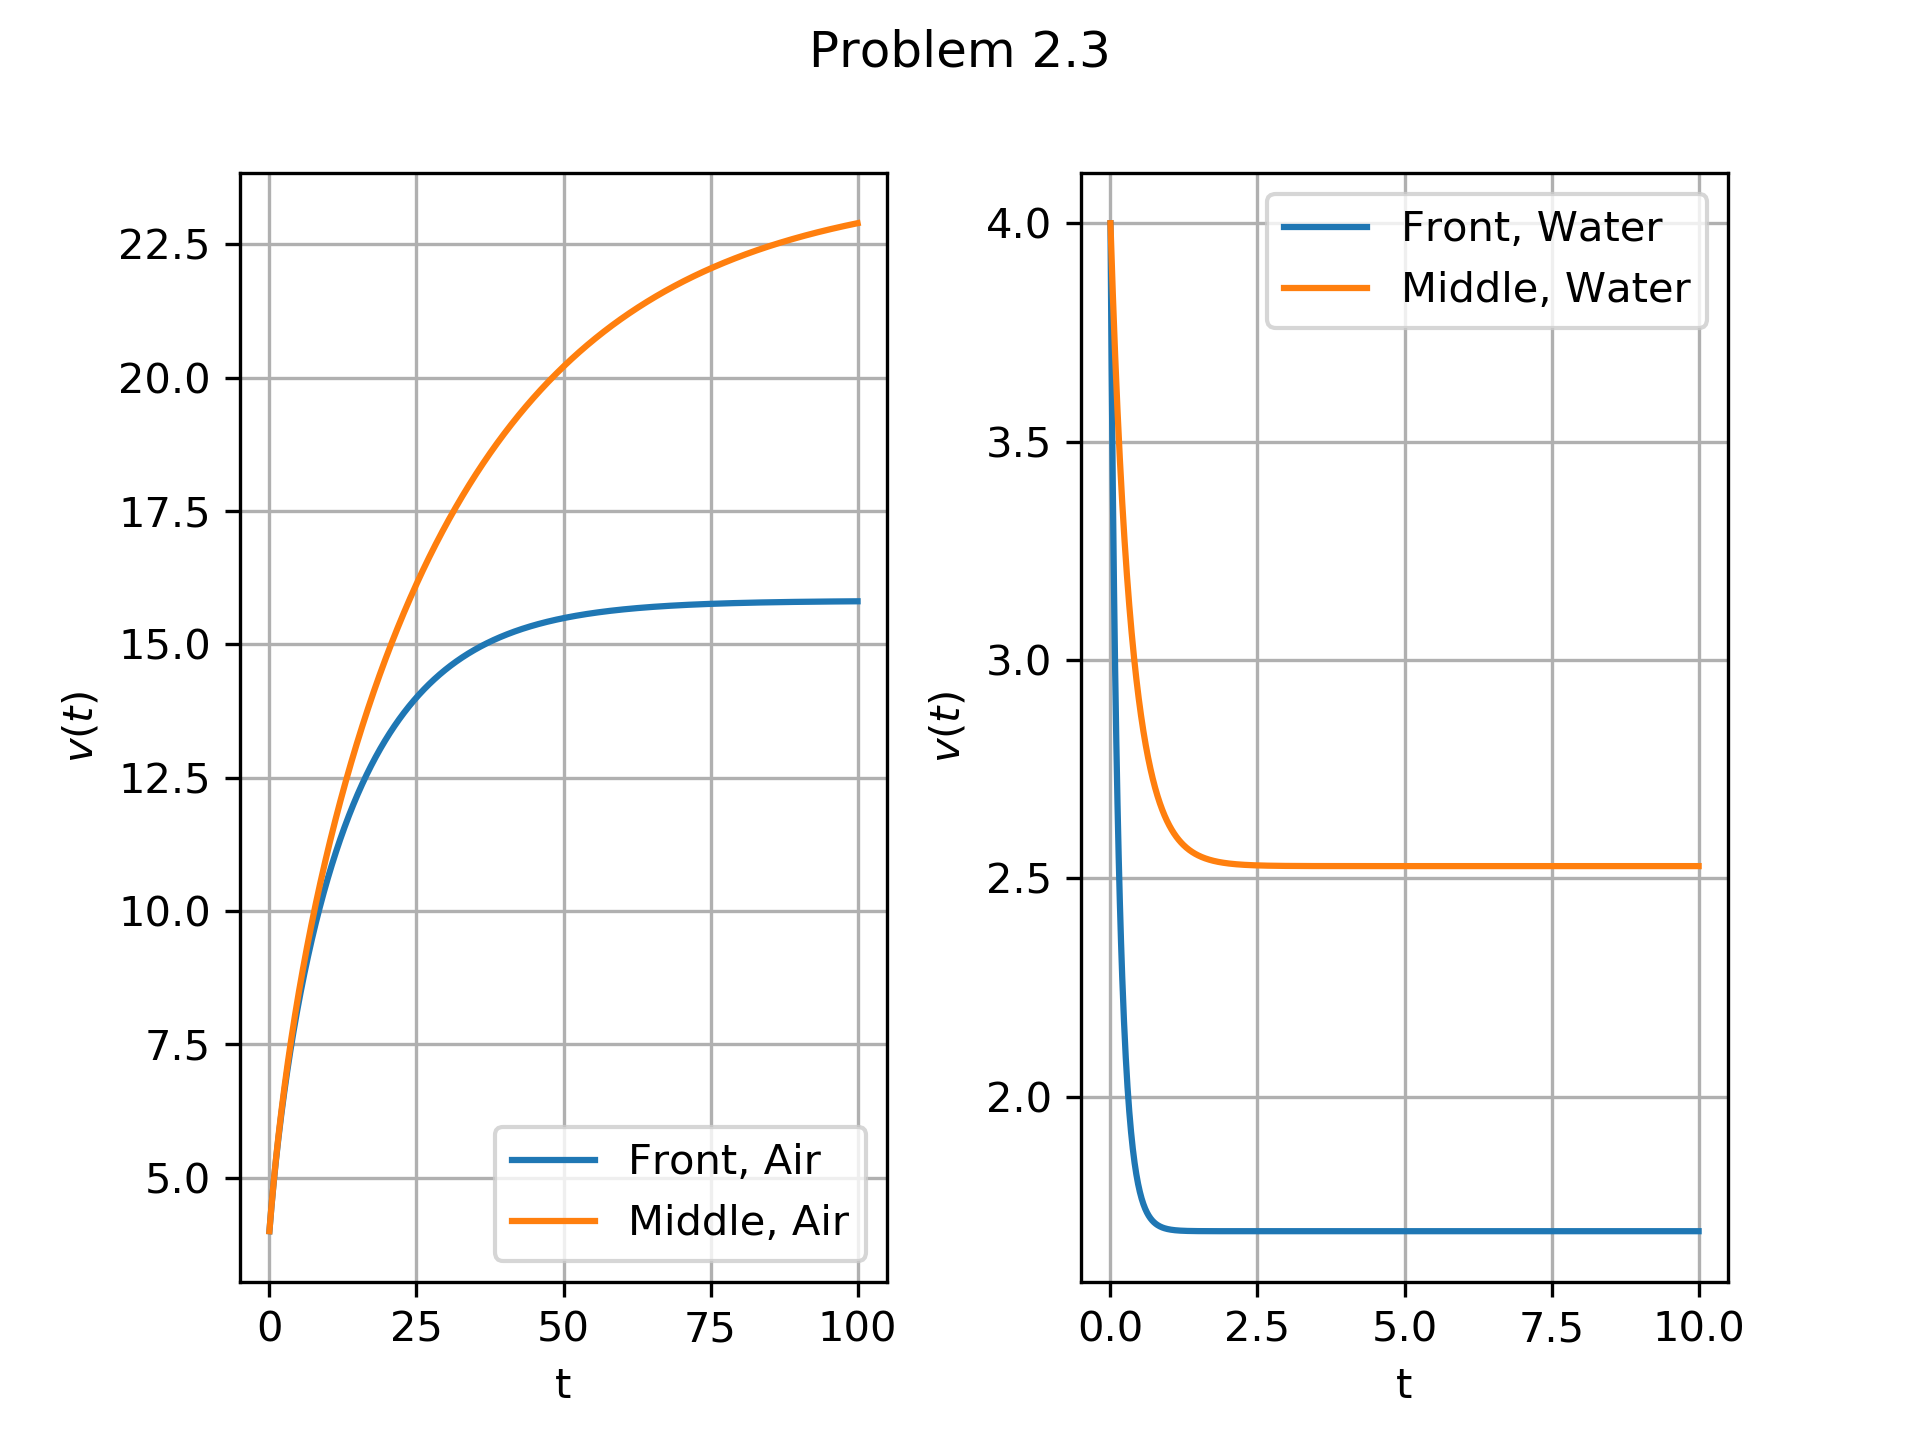
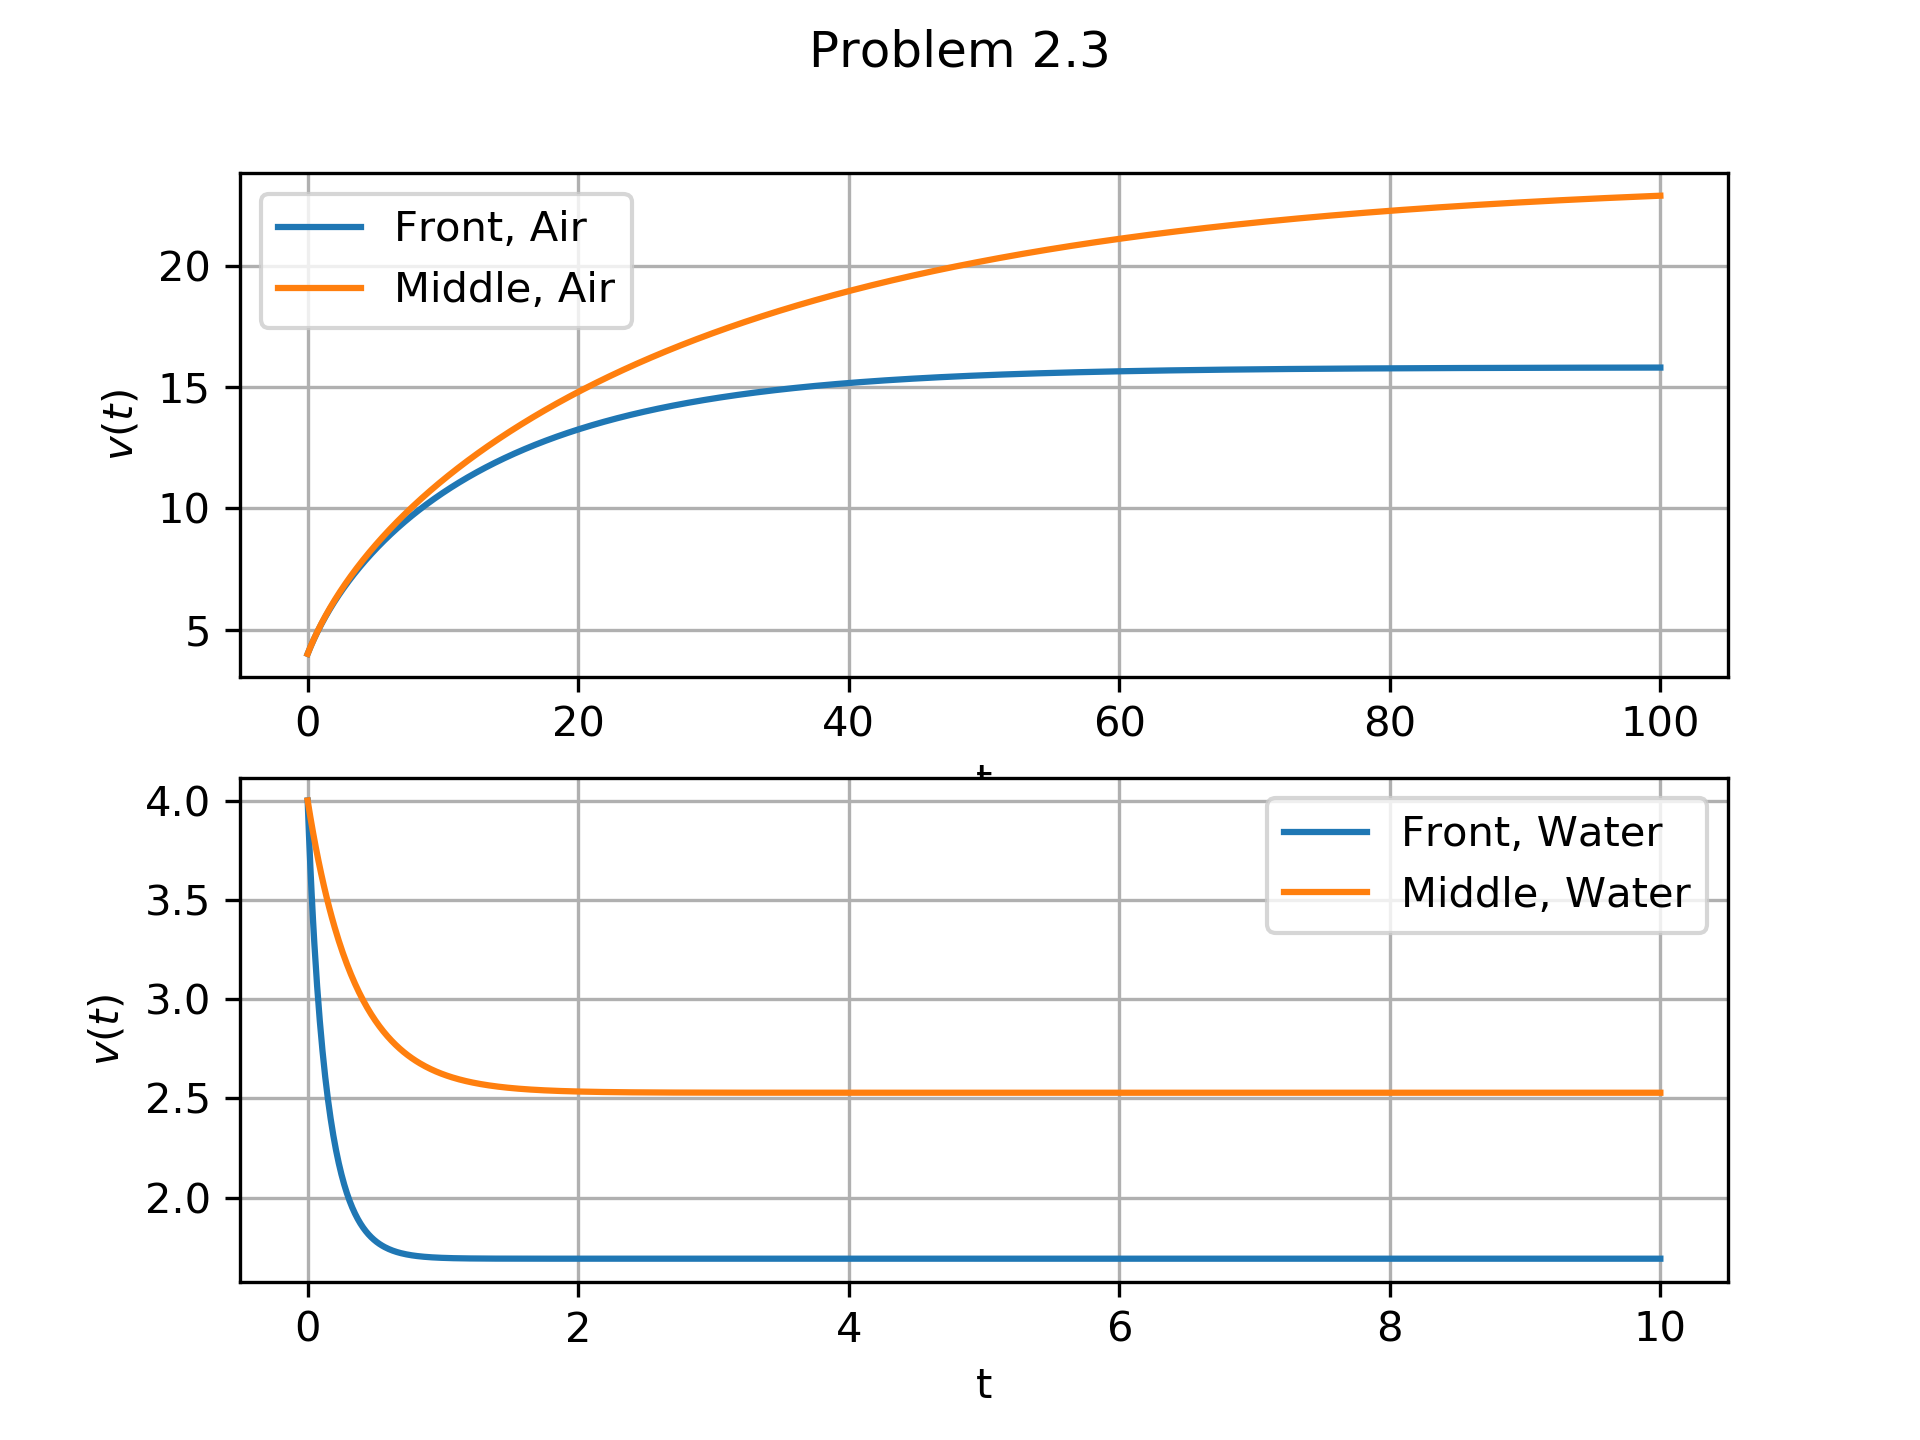
Fixed a couple bugs and added Constants.py

diff --git a/lib/Constants.py b/lib/Constants.py
@@ -1,6 +1,6 @@
 ########################################################################################################################
-#     ========     |  Purdue Physics 580 - Computational Physics                                                       #
-#     \\           |  Chapter 2 - Problem 5                                                                            #
+#     ========     |  Constants                                                                                        #
+#     \\           |  A basic class for physical constants                                                             #
 #      \\          |                                                                                                   #
 #      //          |  Author: Ethan Knox                                                                               #
 #     //           |  Website: https://www.github.com/ethank5149                                                       #
@@ -24,55 +24,14 @@
 # OTHERWISE, ARISING FROM, OUT OF OR IN CONNECTION WITH THE SOFTWARE OR THE USE OR OTHER DEALINGS IN THE SOFTWARE.     #
 ########################################################################################################################
 
-# Including
-from lib.NDSolveSystem import ODE, SymplecticODE
-import numpy as np
-from matplotlib import pyplot as plt
-from functools import partial
+
+class Air:
+    def __init__(self):
+        self.density = 1.225
+        self.viscosity = 2.0e-5
 
 
-def rhs(t, X, m, P, C, rho, A,F0):
-    if F0*X[0] < P:
-        return np.array([F0/m - 0.5 * C * rho * A * X[0] ** 2 / m, ])
-    else:
-        return np.array([P/(m*X[0])-0.5*C*rho*A*X[0]**2/m,])
-
-
-def rhs_old(t, X, m, P, C, rho, A):
-    return np.array([P/(m*X[0])-0.5*C*rho*A*X[0]**2/m,])
-
-
-power = 400
-mass = 70
-v_initial = 4
-drag_coeff = 0.5
-v_star = 7
-F_initial = power/v_star
-area = 0.33
-air_density = 1.225
-
-curried_rhs = partial(rhs, m=mass,P=power,C=drag_coeff,rho=air_density,A=area,F0=F_initial)
-curried_rhs_old = partial(rhs_old, m=mass,P=power,C=drag_coeff,rho=air_density,A=area)
-ic = np.array([v_initial,])  # Initial Condition
-
-sim1 = ODE(curried_rhs, ic, ti=0, dt=0.01, tf=50)
-sim2 = ODE(curried_rhs_old, ic, ti=0, dt=0.01, tf=50)
-
-sim1.run()
-sim2.run()
-
-# Plotting
-fig, ax = plt.subplots(1, 1)
-
-ax.plot(sim1.t_series, sim1.X_series[:,0], label=f"New Method")
-ax.plot(sim2.t_series, sim2.X_series[:,0], label=f"Old Method")
-
-ax.legend()
-ax.grid()
-ax.set_xlabel("t")
-ax.set_ylabel(r"$v(t)$")
-
-
-plt.suptitle("Problem 2.5")
-plt.subplots_adjust(wspace=0.3)
-plt.savefig("../../figures/Chapter2/Problem2_5",dpi=300)
+class Water:
+    def __init__(self):
+        self.density = 1000
+        self.viscosity = 1.0e-3

diff --git a/src/Chapter2/Problem2_3.py b/src/Chapter2/Problem2_3.py
@@ -25,40 +25,43 @@
 ########################################################################################################################
 
 # Including
-from lib.NDSolveSystem import ODE, SymplecticODE
+from lib.NDSolveSystem import ODE
+from lib import Constants
 import numpy as np
 from matplotlib import pyplot as plt
 from functools import partial
 
+
 # Global Definitions
 g = 9.81  # Gravitational Acceleration [m/s^2]
+w = 0.411  # Shoulder Width [m]
+air = Constants.Air()
+water = Constants.Water()
 
 
-def rhs(t, X, m,P,C,rho,eta,A,h):
-    return np.array([P/(m*X[0])-eta*A*X[0]/(m*h)-0.5*C*rho*A*X[0]**2/m,])
+def rhs(t, X, m, P, C, rho, eta, A):
+    return np.array([P/(m*X[0])-eta*w*X[0]/m-0.5*C*rho*A*X[0]**2/m,])
 
-def rhs2(t, X, m,P,C,rho,eta,A,h):
-    return np.array([X[1],P/(m*X[1])-eta*A*X[1]/(h*m)-0.5*C*rho*A*X[1]**2/m])
 
 P = 400
 m = 70
 v0 = 4
 C = 0.5
 
-w = 0.411  # Shoulder Width
 A_front = 0.33
 A_middle = 0.3*A_front
-h_front = A_front/w
-h_middle = A_middle/w
-rho_air = 1.225
-rho_water = 1000
-eta_air = 2.0e-5
-eta_water = 1.0e-3
 
-sim1 = ODE(partial(rhs, m=m,P=P,C=C,rho=rho_air,eta=eta_air,A=A_front,h=h_front), np.array([v0,]), ti=0, dt=0.01, tf=100)
-sim2 = ODE(partial(rhs, m=m,P=P,C=C,rho=rho_air,eta=eta_air,A=A_middle,h=h_middle), np.array([v0,]), ti=0, dt=0.01, tf=100)
-sim3 = ODE(partial(rhs, m=m,P=P,C=C,rho=rho_water,eta=eta_water,A=A_front,h=h_front), np.array([v0,]), ti=0, dt=0.01, tf=10)
-sim4 = ODE(partial(rhs, m=m,P=P,C=C,rho=rho_water,eta=eta_water,A=A_middle,h=h_middle), np.array([v0,]), ti=0, dt=0.01, tf=10)
+curried_rhs_front_air = partial(rhs, m=m, P=P, C=C, rho=air.density, eta=air.viscosity, A=A_front)
+curried_rhs_middle_air = partial(rhs, m=m, P=P, C=C, rho=air.density, eta=air.viscosity, A=A_middle)
+curried_rhs_front_water = partial(rhs, m=m, P=P, C=C, rho=water.density, eta=water.viscosity, A=A_front)
+curried_rhs_middle_water = partial(rhs, m=m, P=P, C=C, rho=water.density, eta=water.viscosity, A=A_middle)
+
+ic = np.array([v0, ])
+
+sim1 = ODE(curried_rhs_front_air, ic, ti=0, dt=0.01, tf=100)
+sim2 = ODE(curried_rhs_middle_air, ic, ti=0, dt=0.01, tf=100)
+sim3 = ODE(curried_rhs_front_water, ic, ti=0, dt=0.01, tf=10)
+sim4 = ODE(curried_rhs_middle_water, ic, ti=0, dt=0.01, tf=10)
 
 sim1.run()
 sim2.run()
@@ -66,7 +69,7 @@ sim3.run()
 sim4.run()
 
 # Plotting
-fig, (ax1,ax2) = plt.subplots(1, 2)
+fig, (ax1,ax2) = plt.subplots(2,1)
 
 ax1.plot(sim1.t_series, sim1.X_series[:,0], label=f"Front, Air")
 ax1.plot(sim2.t_series, sim2.X_series[:,0], label=f"Middle, Air")

diff --git a/src/Chapter2/Problem2_4.py b/src/Chapter2/Problem2_4.py
@@ -25,52 +25,58 @@
 ########################################################################################################################
 
 # Including
-from lib.NDSolveSystem import ODE, SymplecticODE
+# Including
+from lib.NDSolveSystem import ODE
+from lib import Constants
 import numpy as np
 from matplotlib import pyplot as plt
 from functools import partial
 
+
 # Global Definitions
 g = 9.81  # Gravitational Acceleration [m/s^2]
-w = 0.411  # Shoulder width
+w = 0.411  # Shoulder Width [m]
+air = Constants.Air()
+water = Constants.Water()
 
 
-def rhs(t, X, m,P,C,rho,eta,A,h,theta):
-    return np.array([P/(m*X[0])-g*np.sin(theta)-eta*w*X[0]/m-0.5*C*rho*A*X[0]**2/m,])
+def rhs(t, X, m, P, C, rho, theta, A):
+    return np.array([P/(m*X[0])-g*np.sin(theta)-0.5*C*rho*A*X[0]**2/m,])
+
 
 P = 400
 m = 70
 v0 = 4
 C = 0.5
+angle_deg = 10
+angle = angle_deg*np.pi/180
+A = 0.33
 
-w = 0.411  # Shoulder Width
-A_front = 0.33
-A_middle = 0.3*A_front
-h_front = A_front/w
-h_middle = A_middle/w
-rho_air = 1.225
-rho_water = 1000
-eta_air = 2.0e-5
-eta_water = 1.0e-3
-theta = np.pi*10/180
+curried_rhs_flat = partial(rhs, m=m, P=P, C=C, rho=air.density, theta=0, A=A)
+curried_rhs_incline = partial(rhs, m=m, P=P, C=C, rho=air.density, theta=angle, A=A)
+curried_rhs_decline = partial(rhs, m=m, P=P, C=C, rho=air.density, theta=-angle, A=A)
 
-sim1 = ODE(partial(rhs, m=m,P=P,C=C,rho=rho_air,eta=eta_air,A=A_front,h=h_front,theta=0), np.array([v0,]), ti=0, dt=0.01, tf=100)
-sim2 = ODE(partial(rhs, m=m,P=P,C=C,rho=rho_air,eta=eta_air,A=A_front,h=h_front,theta=-theta), np.array([v0,]), ti=0, dt=0.01, tf=100)
+ic = np.array([v0, ])
+
+sim1 = ODE(curried_rhs_flat, ic, ti=0, dt=0.01, tf=100)
+sim2 = ODE(curried_rhs_incline, ic, ti=0, dt=0.01, tf=100)
+sim3 = ODE(curried_rhs_decline, ic, ti=0, dt=0.01, tf=100)
 
 sim1.run()
 sim2.run()
+sim3.run()
 
 # Plotting
-fig, ax = plt.subplots(1, 1)
+fig, ax = plt.subplots(1,1)
 
-ax.plot(sim1.t_series, sim1.X_series[:,0], label=f"0 deg")
-ax.plot(sim2.t_series, sim2.X_series[:,0], label=f"-10 deg")
+ax.plot(sim1.t_series, sim1.X_series[:,0], label=rf"$0^{{\circ}}$ Grade")
+ax.plot(sim2.t_series, sim2.X_series[:,0], label=rf"${angle_deg}^{{\circ}}$ Grade")
+ax.plot(sim3.t_series, sim3.X_series[:,0], label=rf"$-{angle_deg}^{{\circ}}$ Grade")
 
 ax.legend()
 ax.grid()
 ax.set_xlabel("t")
 ax.set_ylabel(r"$v(t)$")
-
 
 plt.suptitle("Problem 2.4")
 plt.subplots_adjust(wspace=0.3)

diff --git a/src/Chapter2/Problem2_2.py b/src/Chapter2/Problem2_2.py
@@ -26,12 +26,14 @@
 
 # Including
 from lib.NDSolveSystem import ODE, SymplecticODE
+from lib import Constants
 import numpy as np
 from matplotlib import pyplot as plt
 from functools import partial
 
 # Global Definitions
 g = 9.81  # Gravitational Acceleration [m/s^2]
+air = Constants.Air()
 
 
 def rhs(t, X, m,P,C,rho,A):
@@ -42,22 +44,29 @@ def rhs2(t, X, m,P,C,rho,A):
 
 def W_d(X,m,P,C,rho,A):
     return X[:,0]*0.5*C*rho*A*X[:,1]**2
-# X[:,0]*(P/(X[:,1])-0.5*C*rho*A*X[:,1]**2)
 
 def v(t,m,P,v0):
     return np.sqrt(2*P*t/m+v0**2)
+
 
 P = 400
 m = 70
 v0 = 4
 C = 0.5
 A = 0.33
-rho = 1.225
 
-sim1 = ODE(partial(rhs, m=m,P=P,C=C,rho=rho,A=A), np.array([v0,]), ti=0, dt=0.01, tf=200)
-sim2 = ODE(partial(rhs, m=m,P=P,C=C,rho=rho,A=0.3*A), np.array([v0,]), ti=0, dt=0.01, tf=200)
-sim3 = ODE(partial(rhs2, m=m,P=P,C=C,rho=rho,A=A), np.array([0,v0]), ti=0, dt=0.01, tf=200)
-sim4 = ODE(partial(rhs2, m=m,P=P,C=C,rho=rho,A=0.3*A), np.array([0,v0]), ti=0, dt=0.01, tf=200)
+curried_rhs_front = partial(rhs, m=m,P=P,C=C,rho=air.density,A=A)
+curried_rhs_middle = partial(rhs, m=m,P=P,C=C,rho=air.density,A=0.3*A)
+curried_rhs2_front = partial(rhs2, m=m,P=P,C=C,rho=air.density,A=A)
+curried_rhs2_middle = partial(rhs2, m=m,P=P,C=C,rho=air.density,A=0.3*A)
+
+ic = np.array([v0,])
+ic2 = np.array([0,v0])
+
+sim1 = ODE(curried_rhs_front,ic, ti=0, dt=0.01, tf=200)
+sim2 = ODE(curried_rhs_middle, ic, ti=0, dt=0.01, tf=200)
+sim3 = ODE(curried_rhs2_front, ic2, ti=0, dt=0.01, tf=200)
+sim4 = ODE(curried_rhs2_middle, ic2, ti=0, dt=0.01, tf=200)
 
 sim1.run()
 sim2.run()
@@ -69,7 +78,7 @@ fig, ax = plt.subplots(2, 1,sharex=True)
 
 ax[0].plot(sim1.t_series, sim1.X_series[:,0], label=f"Front of the pack")
 ax[0].plot(sim2.t_series, sim2.X_series[:,0], label=f"Middle of the pack")
-ax[1].plot(sim3.t_series, W_d(sim3.X_series,m,P,C,rho,A)-W_d(sim4.X_series,m,P,C,rho,0.3*A), label=r"$W_d$ Front - $W_d$ Middle")
+ax[1].plot(sim3.t_series, W_d(sim3.X_series,m,P,C,air.density,A)-W_d(sim4.X_series,m,P,C,air.density,0.3*A), label=r"$W_d$ Front - $W_d$ Middle")
 # ax[1].plot(sim4.t_series, W_d(sim4.X_series,m,P,C,rho,0.3*A), label=f"Middle of the pack")
 
 for a in ax:

diff --git a/src/Chapter2/Problem2_1.py b/src/Chapter2/Problem2_1.py
@@ -40,6 +40,7 @@ def rhs(t, X, m,P):
 def v(t,m,P,v0):
     return np.sqrt(2*P*t/m+v0**2)
 
+
 P = 400
 m = 70
 v0 = 4
